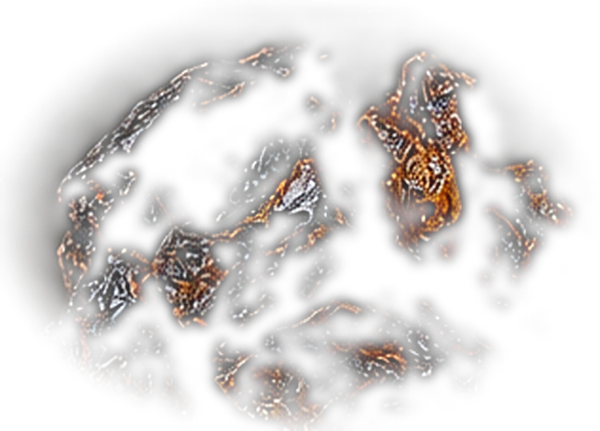
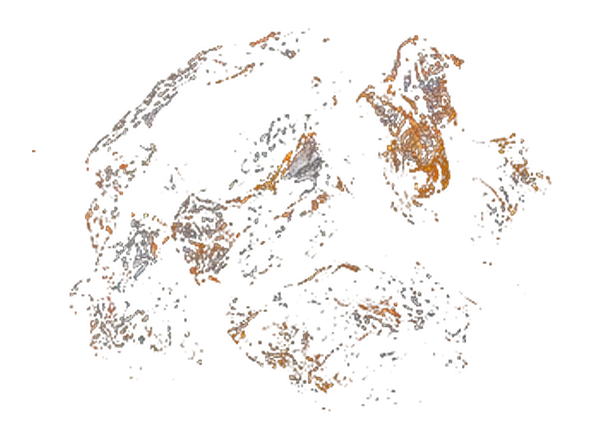
Adrift: float the core, and give it a front and a back
The four materials named on the reference sheet as the core — agarwood,
frankincense, labdanum, vetiver — are what drifts now. Orris root is out;
it was never part of the core.

All four are re-keyed off the sheet. The old matte thresholded flat against
a single background value, which left the frankincense tile's vignette
behind as a faint rectangle hanging in the dark. The background is now
fitted as a quadratic across the frame's known-background border and
subtracted, so what is cut is the gradient, not a guess at it. Ring
brightness outside the subject drops by a factor of five on the two
existing plates.

The composition had the tells: two specimens in opposing corners at the
same height, one uniform drop-shadow applied to everything, and a flat
distribution that never said which was near. Now one depth drives size,
opacity, shadow weight and focus together — the far one is small, dim,
softly out of focus and barely casts — and they sit on a slack diagonal
so nothing pairs off against anything else.

Claude-Session: https://claude.ai/code/session_019C5EeMCWQpLAQQT4c9BXzr

diff --git a/index.html b/index.html
@@ -107,17 +107,26 @@ img{display:block;max-width:100%}
 .vessel .l1{display:block}
 .vessel .l2{display:block;margin-left:clamp(0px,20vw,340px);color:#6E6A62}
 
-/* adrift — three specimens, no gravity, no names */
+/* adrift — the core, weightless, unnamed.
+   Four distances, not four positions: size, opacity, shadow weight and focus
+   all read off the same depth, so the eye can order them front to back. They
+   sit on a slack diagonal rather than in opposing corners — nothing pairs off,
+   nothing sits on the centre line. */
 .drift{position:relative;height:100svh;min-height:600px;overflow:hidden;background:var(--night)}
-.drift .sp{position:absolute;height:auto;will-change:transform;pointer-events:none;
-  filter:drop-shadow(0 30px 60px rgba(0,0,0,.55))}
-#sp1{left:6%;  top:16%; width:clamp(150px,21vw,300px); opacity:.94}
-#sp2{left:41%; top:47%; width:clamp(175px,25vw,360px); opacity:1}
-#sp3{left:69%; top:20%; width:clamp(130px,18vw,264px); opacity:.86}
+.drift .sp{position:absolute;height:auto;will-change:transform;pointer-events:none}
+#sp1{left:8%;  top:21%; width:clamp(148px,20vw,284px); opacity:.90;
+     filter:drop-shadow(0 26px 50px rgba(0,0,0,.50))}
+#sp2{left:30%; top:57%; width:clamp(176px,24vw,346px); opacity:1;
+     filter:drop-shadow(0 38px 74px rgba(0,0,0,.62))}
+#sp3{left:62%; top:13%; width:clamp(112px,16vw,236px); opacity:.78;
+     filter:drop-shadow(0 14px 30px rgba(0,0,0,.38)) blur(.7px)}
+#sp4{left:73%; top:61%; width:clamp(158px,21vw,302px); opacity:.94;
+     filter:drop-shadow(0 31px 60px rgba(0,0,0,.56))}
 @media(max-width:620px){
-  #sp1{left:2%; top:12%; width:44vw}
-  #sp2{left:36%;top:44%; width:52vw}
-  #sp3{left:14%;top:74%; width:40vw}
+  #sp1{left:3%; top:9%;  width:40vw}
+  #sp2{left:33%;top:29%; width:52vw}
+  #sp3{left:5%; top:52%; width:34vw}
+  #sp4{left:45%;top:67%; width:45vw}
 }
 
 /* the opening */
@@ -268,9 +277,10 @@ footer{padding:clamp(36px,7vh,80px) var(--gutter) clamp(46px,8vh,100px);display:
 
 <!-- 04 -->
 <section class="drift" id="drift" aria-hidden="true">
-  <img class="sp" id="sp1" src="img/e-oud.webp"      width="600" height="431" loading="lazy" decoding="async" alt="">
-  <img class="sp" id="sp2" src="img/e-orris.webp"    width="600" height="431" loading="lazy" decoding="async" alt="">
-  <img class="sp" id="sp3" src="img/e-labdanum.webp" width="600" height="431" loading="lazy" decoding="async" alt="">
+  <img class="sp" id="sp1" src="img/e-agarwood.webp"     width="600" height="431" loading="lazy" decoding="async" alt="">
+  <img class="sp" id="sp2" src="img/e-frankincense.webp" width="600" height="431" loading="lazy" decoding="async" alt="">
+  <img class="sp" id="sp3" src="img/e-labdanum.webp"     width="600" height="431" loading="lazy" decoding="async" alt="">
+  <img class="sp" id="sp4" src="img/e-vetiver.webp"      width="600" height="431" loading="lazy" decoding="async" alt="">
 </section>
 
 <div class="hold hold--s"></div>
@@ -921,21 +931,21 @@ footer{padding:clamp(36px,7vh,80px) var(--gutter) clamp(46px,8vh,100px);display:
     }
   })();
 
-  /* ---- adrift: three specimens, weightless ---- */
+  /* ---- adrift: the core, weightless ---- */
   (function(){
     var sec = document.getElementById('drift'); if(!sec || reduce) return;
     var els = [].slice.call(sec.querySelectorAll('.sp'));
     var P = els.map(function(el, i){
-      var d = [0.55, 1.0, 0.36][i];              /* depth: how near it drifts */
+      var d = [0.55, 1.0, 0.36, 0.72][i];        /* depth: how near it drifts */
       return {
         el: el, d: d,
         ax: 26 + 34*d, ay: 20 + 26*d,            /* how far it wanders */
-        f1: [0.0121,0.0093,0.0147][i],           /* three periods that never align */
-        f2: [0.0072,0.0134,0.0088][i],
-        f3: [0.0045,0.0051,0.0039][i],
+        f1: [0.0121,0.0093,0.0147,0.0106][i],    /* periods that never come back into step */
+        f2: [0.0072,0.0134,0.0088,0.0117][i],
+        f3: [0.0045,0.0051,0.0039,0.0058][i],
         p1: Math.random()*6.283, p2: Math.random()*6.283, p3: Math.random()*6.283,
-        rot: [5.2,3.4,7.1][i], rf: [0.0061,0.0043,0.0077][i], rp: Math.random()*6.283,
-        sf: [0.0038,0.0029,0.0047][i], sp: Math.random()*6.283
+        rot: [5.2,3.4,7.1,4.3][i], rf: [0.0061,0.0043,0.0077,0.0052][i], rp: Math.random()*6.283,
+        sf: [0.0038,0.0029,0.0047,0.0034][i], sp: Math.random()*6.283
       };
     });
     var par = 0, on = false;
